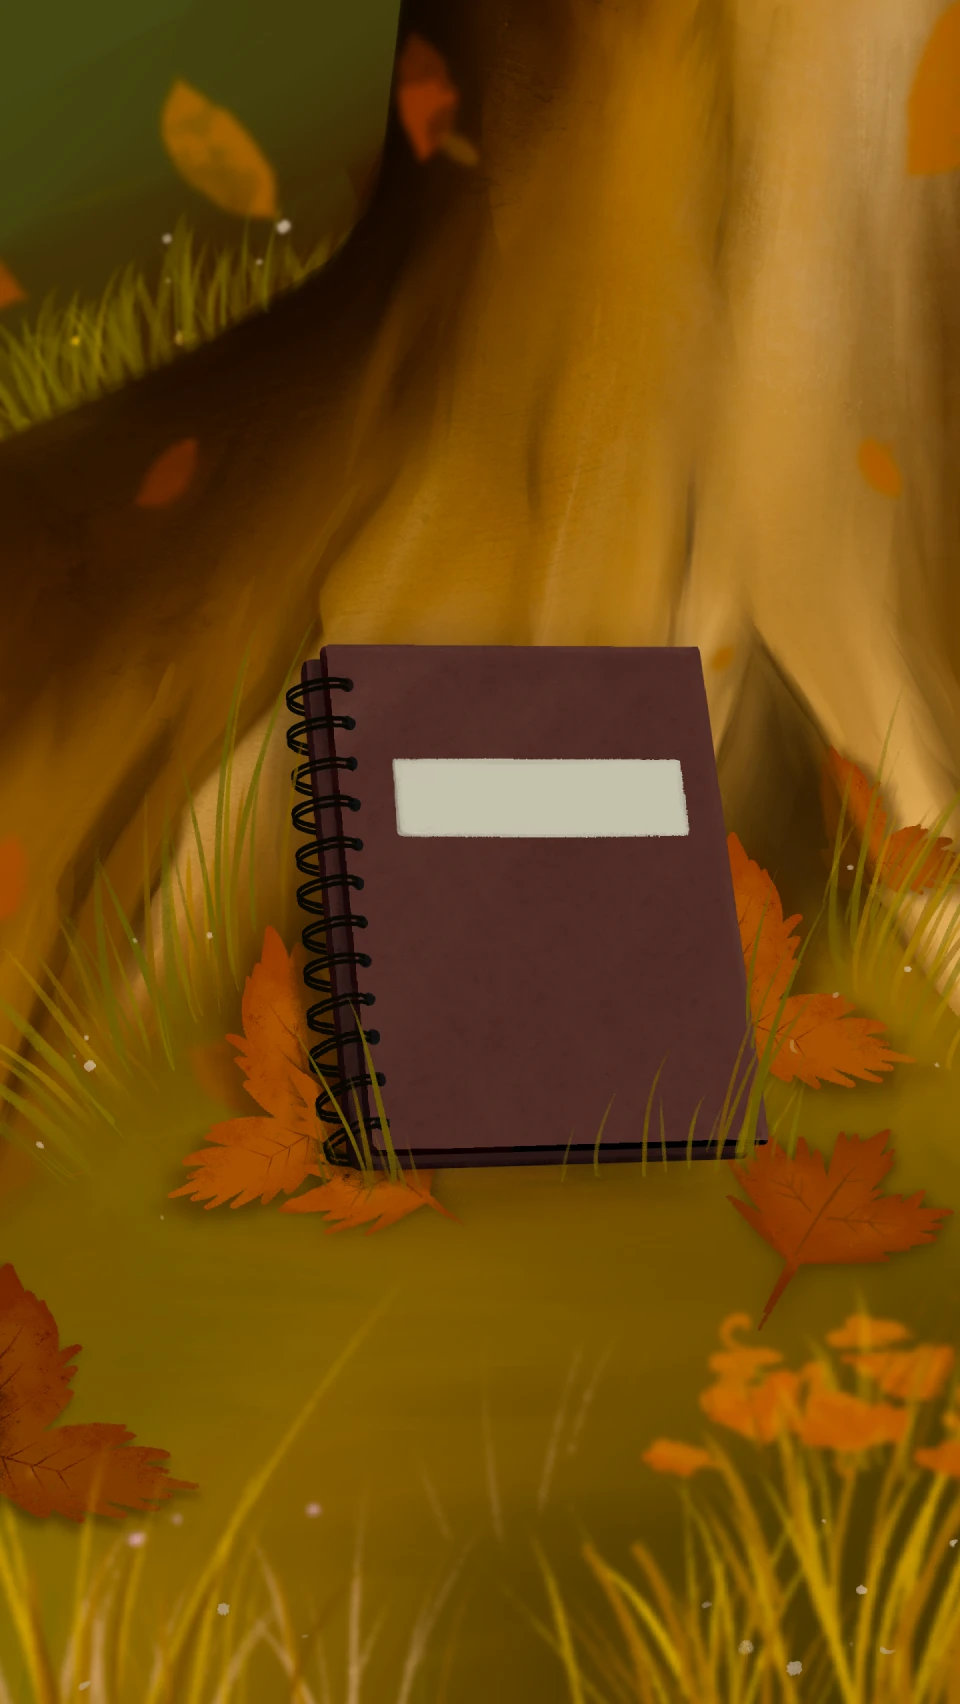
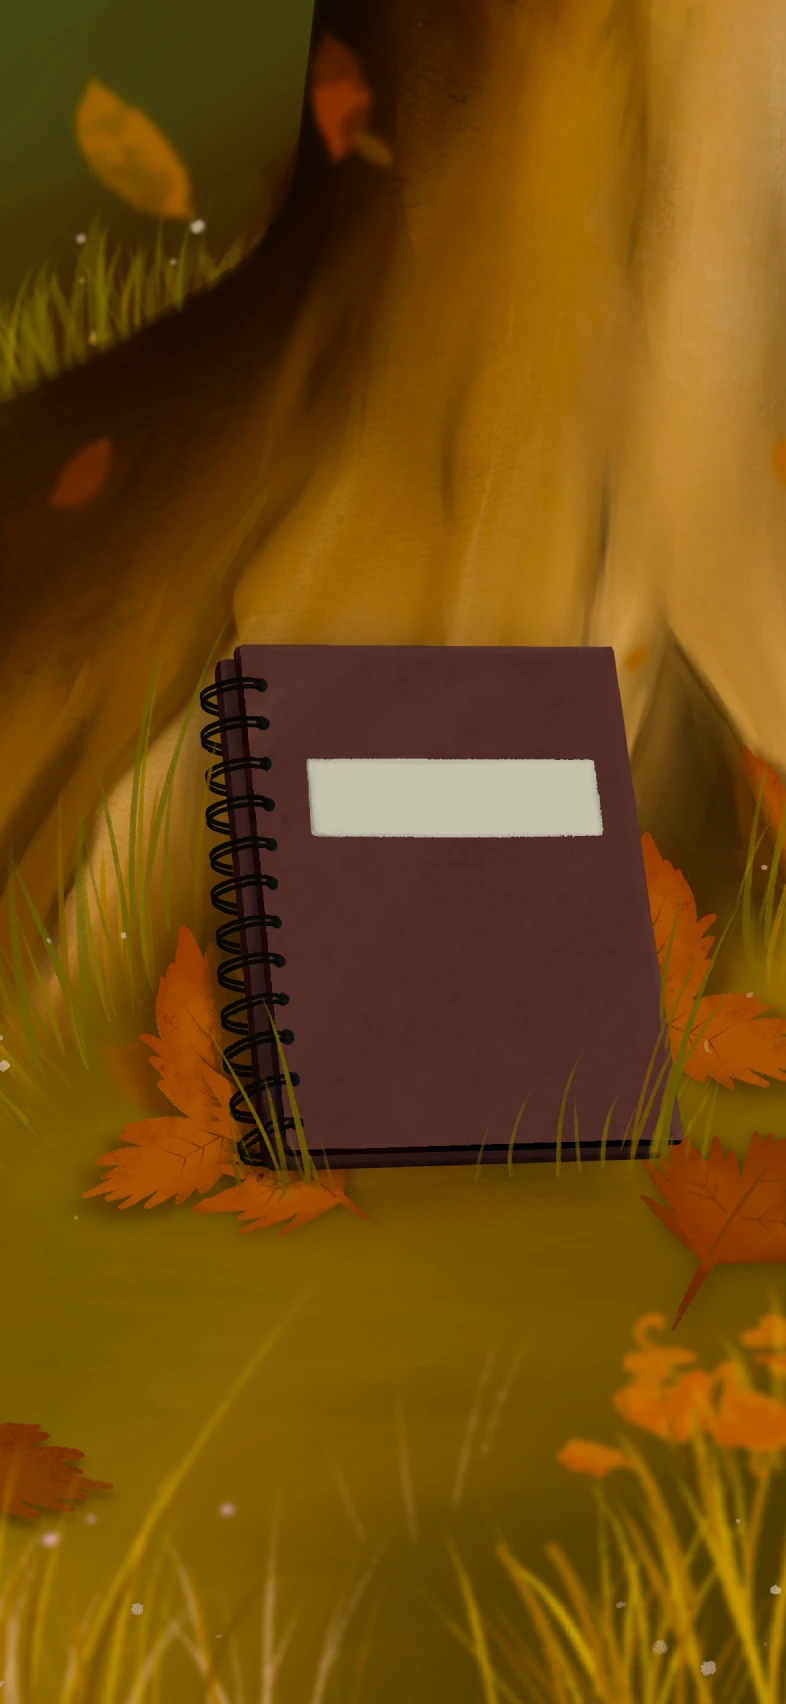
feat: 1-4-1 fix bg, 1-4-4 and 1-4-5 page

diff --git a/src/app/[locale]/(1-4)/1-4-4/page.tsx b/src/app/[locale]/(1-4)/1-4-4/page.tsx
@@ -3,17 +3,14 @@ import { motion } from "framer-motion"
 import { useTranslations } from "next-intl"
 import React from "react"
 
-const Scene1_4Page1: React.FC = () => {
-  const t = useTranslations("1-4-1")
-  const name = typeof window !== "undefined" ? localStorage.getItem("name") : null
-  const importantPerson =
-    typeof window !== "undefined" ? localStorage.getItem("importantPerson") : null
+const Scene1_4Page4: React.FC = () => {
+  const t = useTranslations("1-4-4")
 
   return (
-    <div className="flex h-screen w-full bg-[url('/bg/1-4-1.webp')] flex-col items-center bg-cover bg-no-repeat bg-center">
+    <div className="flex h-screen w-full bg-[url('/bg/1-4-4.webp')] flex-col items-center bg-cover bg-no-repeat bg-center">
       <div className="flex flex-col items-center justify-center">
         <motion.div
-          className="absolute bottom-[62%]"
+          className="absolute bottom-[60%]"
           initial={{ opacity: 0, y: 0 }}
           animate={{ opacity: 1, y: 0 }}
           exit={{ opacity: 1, y: 0 }}
@@ -21,22 +18,30 @@ const Scene1_4Page1: React.FC = () => {
           <div className="flex h-[135px] w-[400px]">
             <div className="items-cemter flex h-full w-full flex-col justify-center">
               <p className="text-center text-lg text-white font-light whitespace-break-spaces drop-shadow">
-                {t("thereMightBe")}
+                {t("theDiary")}
               </p>
             </div>
           </div>
         </motion.div>
         <motion.div
-          className="absolute bottom-[51%] right-[24%] w-36 h-10 flex items-center justify-center text-center text-sm text-black"
+          className="absolute bottom-[48%] right-[41.5%] flex items-center justify-center text-4xl font-medium"
           initial={{ opacity: 0, y: 0 }}
           animate={{ opacity: 1, y: 0 }}
           exit={{ opacity: 1, y: 0 }}
           transition={{ delay: 0.5, duration: 1 }}>
-          {name ?? t("name")} & {importantPerson ?? t("importantPerson")}
+          Day 0:
+        </motion.div>
+        <motion.div
+          className="absolute top-[53%] right-[11%] w-56 flex items-center justify-center text-lg text-black whitespace-break-spaces"
+          initial={{ opacity: 0, y: 0 }}
+          animate={{ opacity: 1, y: 0 }}
+          exit={{ opacity: 1, y: 0 }}
+          transition={{ delay: 0.5, duration: 1 }}>
+          {t("planting")}
         </motion.div>
       </div>
     </div>
   )
 }
 
-export default Scene1_4Page1
+export default Scene1_4Page4

diff --git a/src/app/[locale]/(1-4)/1-4-5/page.tsx b/src/app/[locale]/(1-4)/1-4-5/page.tsx
@@ -1,0 +1,25 @@
+"use client"
+import { motion } from "framer-motion"
+import { useTranslations } from "next-intl"
+import React from "react"
+
+const Scene1_4Page5: React.FC = () => {
+  const t = useTranslations("1-4-5")
+
+  return (
+    <div className="flex h-screen w-full bg-[url('/bg/1-4-5.webp')] flex-col items-center bg-cover bg-no-repeat bg-center">
+      <div className="flex flex-col items-center justify-center">
+        <motion.div
+          className="absolute bottom-[46%] right-[16%] flex items-center justify-center text-[64px] font-normal"
+          initial={{ opacity: 0, y: 0 }}
+          animate={{ opacity: 1, y: 0 }}
+          exit={{ opacity: 1, y: 0 }}
+          transition={{ delay: 0.5, duration: 1 }}>
+          Goals!
+        </motion.div>
+      </div>
+    </div>
+  )
+}
+
+export default Scene1_4Page5

diff --git a/src/app/[locale]/(1-4)/1-4-4/layout.tsx b/src/app/[locale]/(1-4)/1-4-4/layout.tsx
@@ -1,0 +1,21 @@
+import { pick } from "lodash"
+import { NextIntlClientProvider } from "next-intl"
+import { getMessages, setRequestLocale } from "next-intl/server"
+import { PropsWithChildren } from "react"
+
+interface LayoutProps extends PropsWithChildren {
+  params: Promise<{ locale: string }>
+}
+
+const Layout = async ({ children, params }: LayoutProps) => {
+  const { locale } = await params
+  setRequestLocale(locale)
+
+  const messages = await getMessages()
+
+  return (
+    <NextIntlClientProvider messages={pick(messages, ["1-4-4"])}>{children}</NextIntlClientProvider>
+  )
+}
+
+export default Layout

diff --git a/src/app/[locale]/(1-4)/1-4-5/layout.tsx b/src/app/[locale]/(1-4)/1-4-5/layout.tsx
@@ -1,0 +1,21 @@
+import { pick } from "lodash"
+import { NextIntlClientProvider } from "next-intl"
+import { getMessages, setRequestLocale } from "next-intl/server"
+import { PropsWithChildren } from "react"
+
+interface LayoutProps extends PropsWithChildren {
+  params: Promise<{ locale: string }>
+}
+
+const Layout = async ({ children, params }: LayoutProps) => {
+  const { locale } = await params
+  setRequestLocale(locale)
+
+  const messages = await getMessages()
+
+  return (
+    <NextIntlClientProvider messages={pick(messages, ["1-4-5"])}>{children}</NextIntlClientProvider>
+  )
+}
+
+export default Layout
